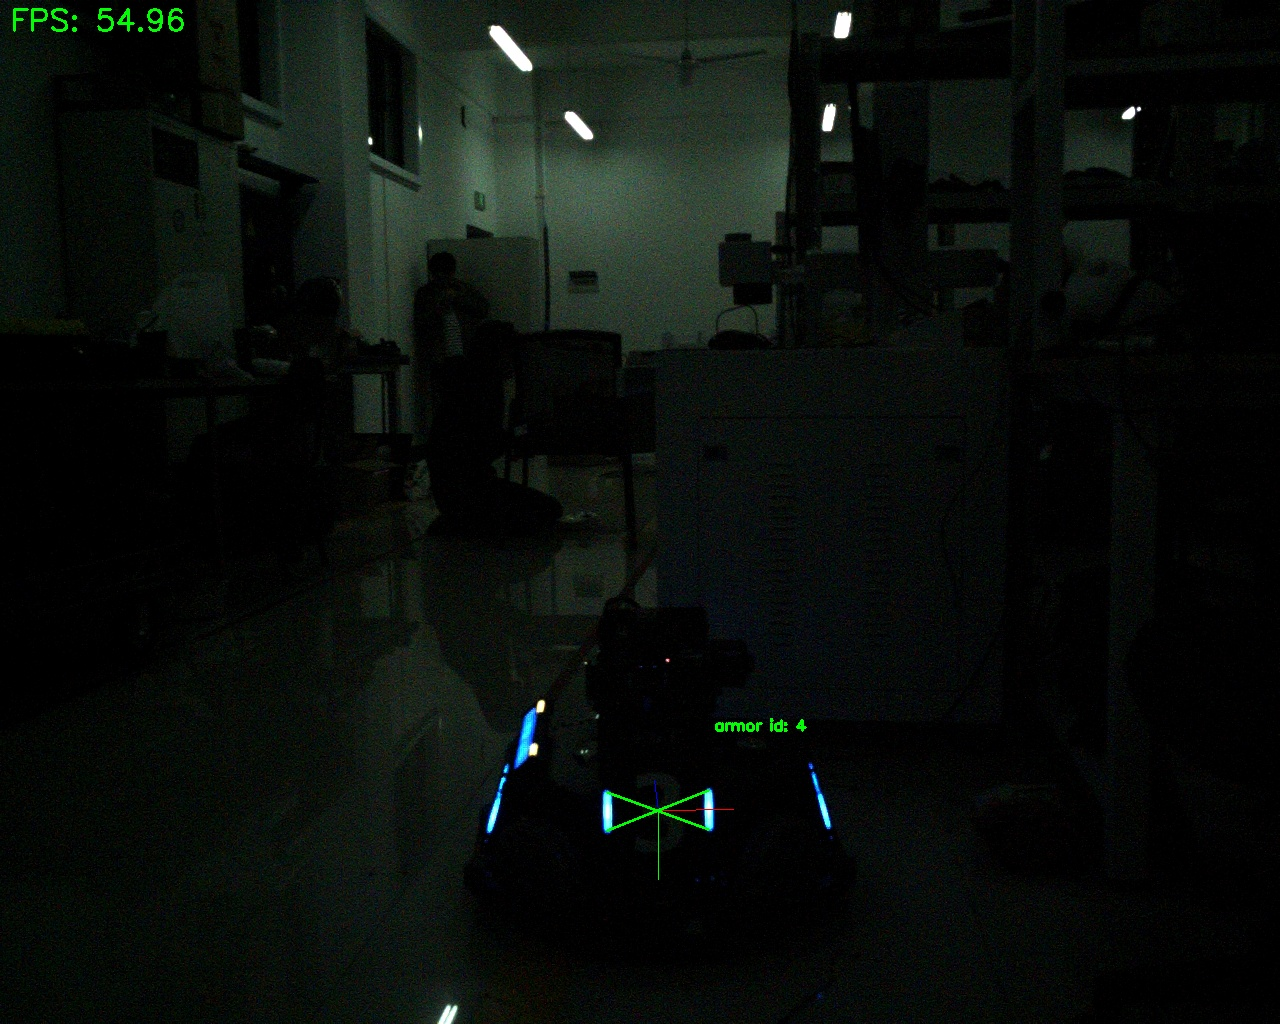
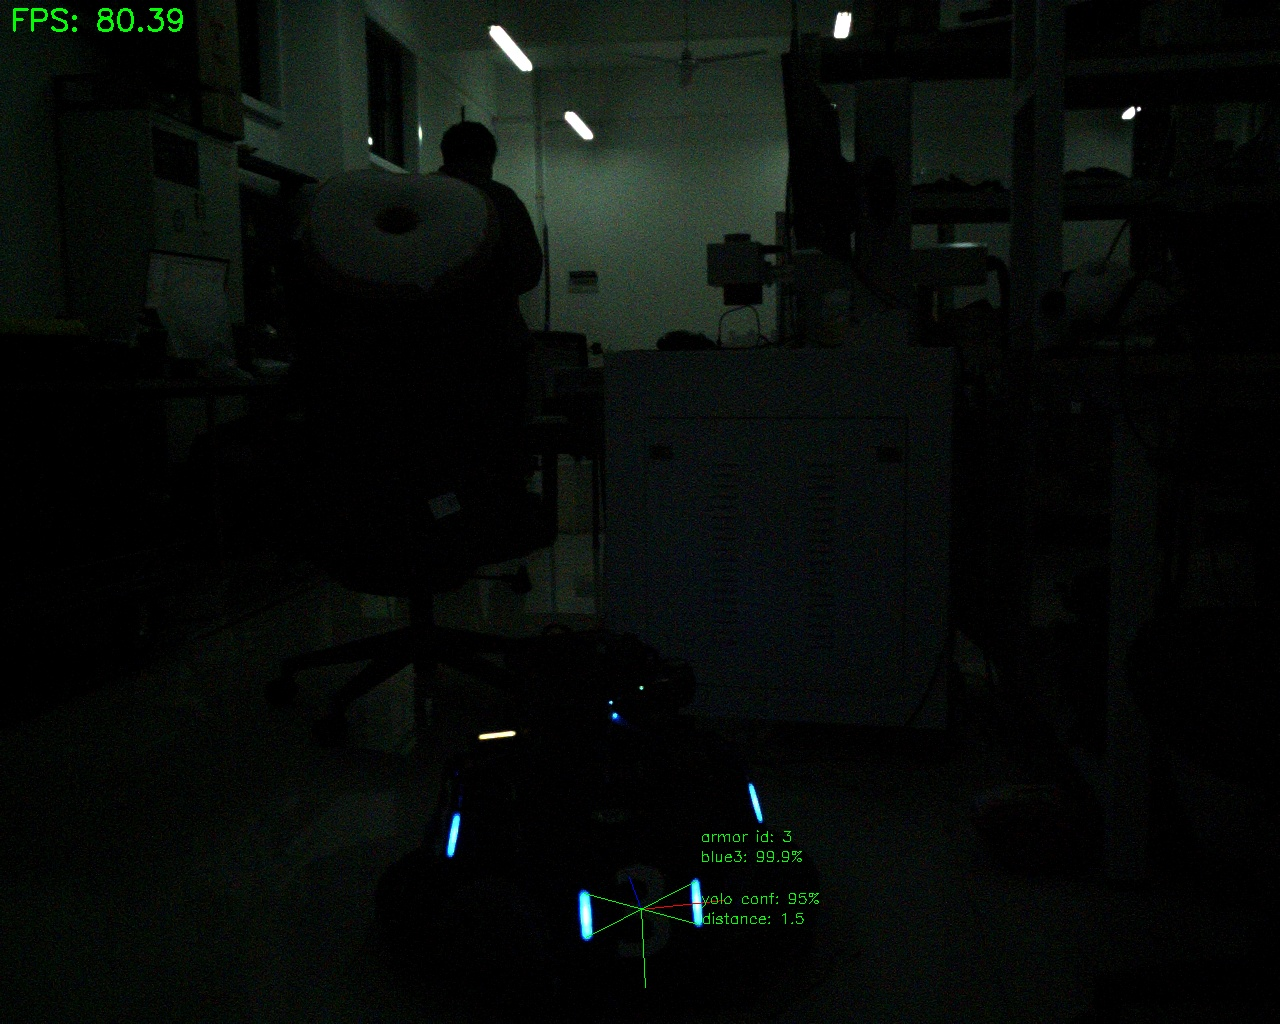
feat(detector): 优化灯条匹配逻辑和装甲板检测算法
- 修改 find_lights 函数，保留两两距离排第二的灯条
- 添加 containLight 函数，用于判断灯条是否包含其他灯条
- 更新 match_lights 函数，增加灯条包含判断逻辑
- 调整 main 函数中的装甲板 ID 更新条件
- 优化 main 函数中的装甲板绘制和信息显示

diff --git a/src/main.cpp b/src/main.cpp
@@ -185,8 +185,7 @@ void detect() {
                     cv::Point3f last_traj_point = id_trajectory[armor.id].back();
                     double distance = cv::norm(last_traj_point - current_point);
                     double tilt_angle = abs(last_armor.yaw - armor.yaw);
-                    std::cout << "Distance: " << distance << ", Tilt Angle: " << tilt_angle << endl;
-                    if (distance > 0.15 || tilt_angle > 0.6 || lost_count > 4) {
+                    if (distance > 0.13 || tilt_angle > 0.6 || lost_count > 4) {
                         int old_id = armor.id;
                         int new_id = ++current_id;
                         armor.id = new_id;
@@ -196,7 +195,7 @@ void detect() {
                         // 更新 tracked_armors 中的记录
                         tracked_armors.erase(old_id);
                         tracked_armors[new_id] = armor;
-                        cout << ">>>>>>>Armor ID updated from " << old_id << " to " << new_id << endl;
+                        // cout << ">>>>>>>Armor ID updated from " << old_id << " to " << new_id << endl;
                     } else {
                         // 无跳变时更新 tracked 信息
                         tracked_armors[armor.id] = armor;
@@ -249,14 +248,12 @@ void detect() {
                     }
                 }
                 
-                line(frame, armor.left_light.top, armor.right_light.bottom, cv::Scalar(0, 255, 0), 2);
-                line(frame, armor.left_light.bottom, armor.right_light.top, cv::Scalar(0, 255, 0), 2);
-                // putText(frame, to_string(armor.x) + " " + to_string(armor.y), armor.right_light.top + cv::Point2f(5, -80), cv::FONT_HERSHEY_SIMPLEX, 0.5, cv::Scalar(0, 255, 0), 2);
-                putText(frame, "armor id: " + to_string(armor.id), armor.right_light.top + cv::Point2f(5, -60), cv::FONT_HERSHEY_SIMPLEX, 0.5, cv::Scalar(0, 255, 0), 2);
-                // putText(frame, "armor yaw: " + to_string(armor.yaw).substr(0, 5), armor.right_light.top + cv::Point2f(5, -40), cv::FONT_HERSHEY_SIMPLEX, 0.5, cv::Scalar(0, 255, 0), 2);
-                // putText(frame, armor.classfication_result, armor.right_light.top + cv::Point2f(5, -20), cv::FONT_HERSHEY_SIMPLEX, 0.5, cv::Scalar(0, 255, 0), 2);
-                // putText(frame, "yolo conf: " + to_string(armor.yolo_confidence).substr(0, 2) + "%", armor.right_light.center + cv::Point2f(5, 0), cv::FONT_HERSHEY_SIMPLEX, 0.5, cv::Scalar(0, 255, 0), 2);
-                // putText(frame, "distance: " + to_string(armor.z).substr(0, 3), armor.right_light.center + cv::Point2f(5, 20), cv::FONT_HERSHEY_SIMPLEX, 0.5, cv::Scalar(0, 255, 0), 2);
+                line(frame, armor.left_light.top, armor.right_light.bottom, cv::Scalar(0, 255, 0), 1);
+                line(frame, armor.left_light.bottom, armor.right_light.top, cv::Scalar(0, 255, 0), 1);
+                putText(frame, "armor id: " + to_string(armor.id), armor.right_light.top + cv::Point2f(5, -40), cv::FONT_HERSHEY_SIMPLEX, 0.5, cv::Scalar(0, 255, 0), 1);
+                putText(frame, armor.classfication_result, armor.right_light.top + cv::Point2f(5, -20), cv::FONT_HERSHEY_SIMPLEX, 0.5, cv::Scalar(0, 255, 0), 1);
+                putText(frame, "yolo conf: " + to_string(armor.yolo_confidence).substr(0, 2) + "%", armor.right_light.center + cv::Point2f(5, 0), cv::FONT_HERSHEY_SIMPLEX, 0.5, cv::Scalar(0, 255, 0), 1);
+                putText(frame, "distance: " + to_string(armor.z).substr(0, 3), armor.right_light.center + cv::Point2f(5, 20), cv::FONT_HERSHEY_SIMPLEX, 0.5, cv::Scalar(0, 255, 0), 1);
                 last_armor = armor;
                 last_timestamp = timestamp;
             }

diff --git a/src/detector.cpp b/src/detector.cpp
@@ -138,8 +138,15 @@ vector<Light> ArmorDet::find_lights(const cv::Mat &roi_image, const cv::Point2f 
     if (lights.size() > 2) {
         sort(lights.begin(), lights.end(), [](const Light &a, const Light &b)
              { return a.center.x > b.center.x; });
-        // 只保留首尾灯条
-        lights.erase(lights.begin() + 1, lights.end() - 1);
+        // 保留两两距离排第二的灯条
+        while (lights.size() > 2) {
+            if (lights[0].center.x - lights[1].center.x > lights[1].center.x - lights[2].center.x) {
+                lights.erase(lights.begin() + 1);
+            } else {
+                lights.erase(lights.begin());
+            }
+        }
+        // lights.erase(lights.begin() + 1, lights.end() - 1);
     }
     return lights;
 }
@@ -152,12 +159,29 @@ bool ArmorDet::is_light(const Light &light) {
     return true;
 }
 
+bool ArmorDet::containLight(const Light & light1, const Light & light2, const std::vector<Light> & lights) {
+    auto points = std::vector<cv::Point2f>{light1.top, light1.bottom, light2.top, light2.bottom};
+    auto bounding_rect = cv::boundingRect(points);
+  
+    for (const auto & test_light : lights) {
+      if (test_light.center == light1.center || test_light.center == light2.center) continue;
+  
+      if (
+        bounding_rect.contains(test_light.top) || bounding_rect.contains(test_light.bottom) ||
+        bounding_rect.contains(test_light.center)) {
+        return true;
+      }
+    }
+    return false;
+  }
+
 vector<Armor> ArmorDet::match_lights(const vector<Light> &lights, vector<int> &result) {
     vector<Armor> armors;
     vector<string> class_names = {"red", "blue"};
     // 匹配灯条
     for (size_t i = 0; i < lights.size(); i++) {
         for (size_t j = i + 1; j < lights.size(); j++) {
+            if (containLight(lights[i], lights[j], lights)) continue;
             if (is_armor(lights[i], lights[j]) != ArmorType::INVALID) {
                 Armor armor(lights[i], lights[j]);
                 armor.classfication_result = class_names[result[4]];

diff --git a/include/detector.hpp b/include/detector.hpp
@@ -46,6 +46,7 @@ private:
     bool is_light(const Light &light);
     vector<Armor> match_lights(const vector<Light> &lights, vector<int> &results);
     ArmorType is_armor(const Light &light1, const Light &light2);
+    bool containLight(const Light & light1, const Light & light2, const std::vector<Light> & lights);
 };
 
 class PnPSolver {
